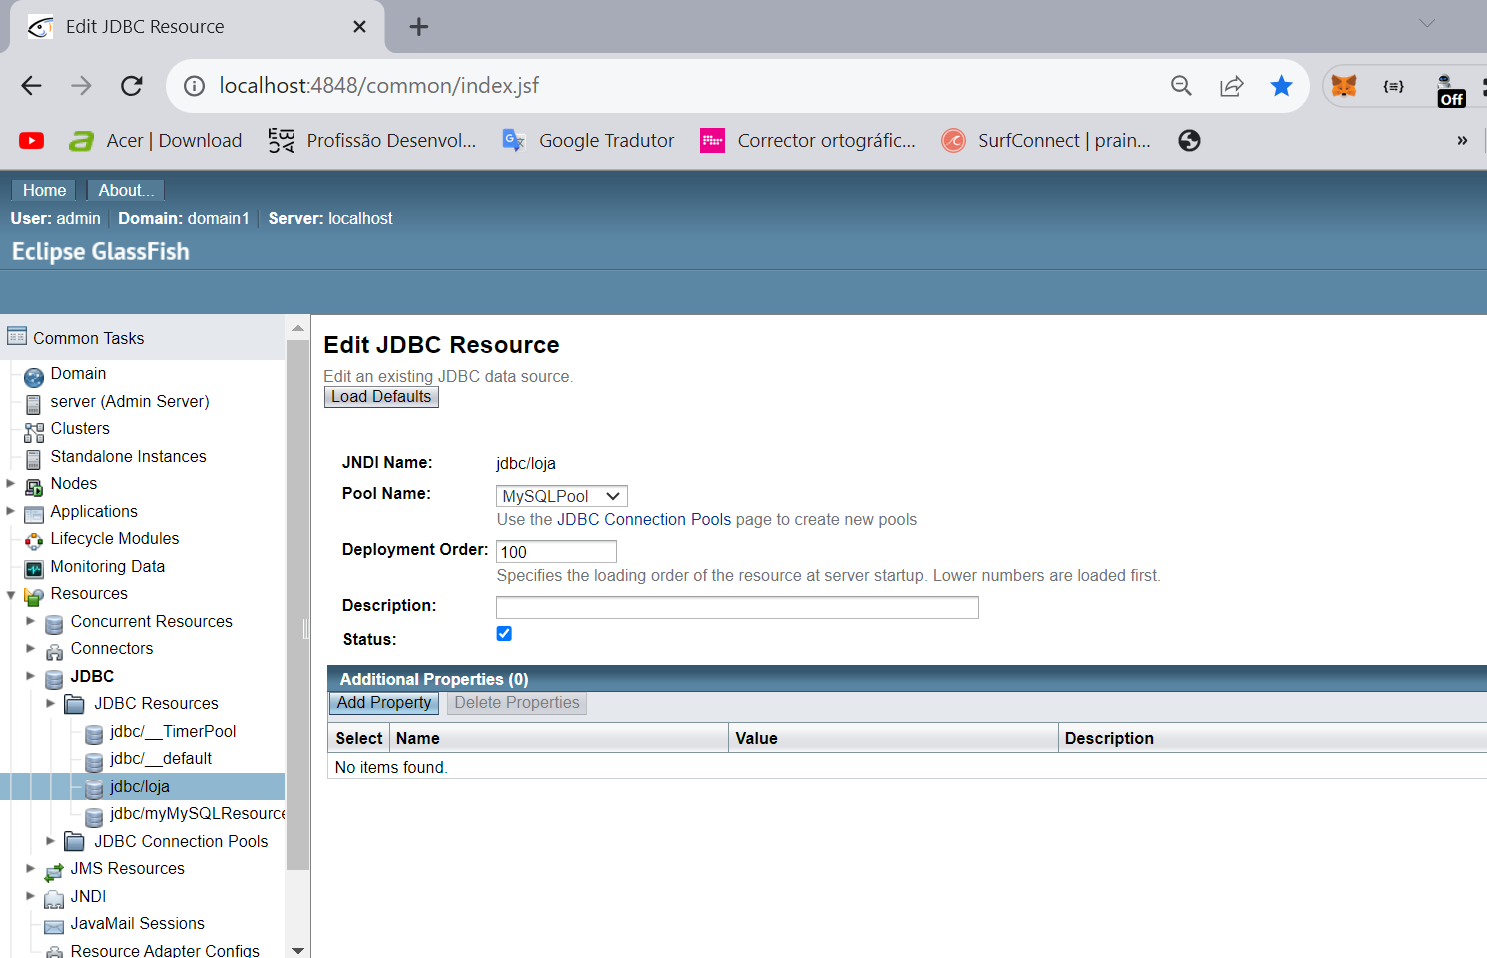
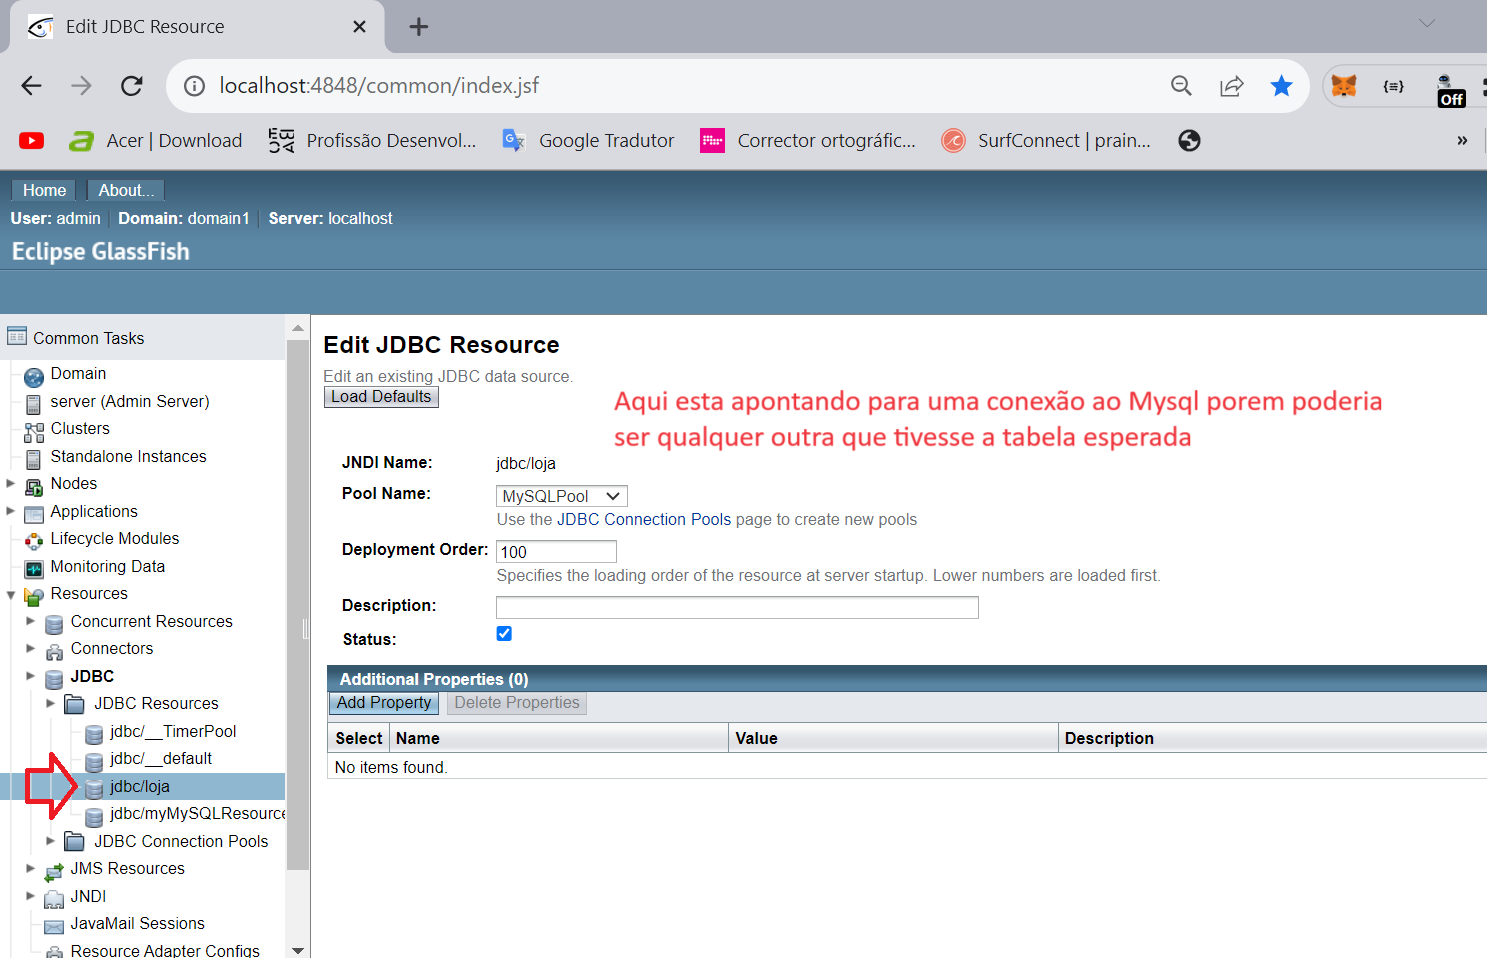
dados,imagens readme

Changed region(s): [[0.4022, 0.3935, 0.928, 0.4843], [0.0, 0.7871, 0.0619, 0.8476]]

diff --git a/README.md b/README.md
@@ -70,19 +70,35 @@
    - O jdk utilizado foi o 17
    - A execução do trabalho esta dividido em duas partes
      - parte 1
-        - http://localhost:8080/CadastroEE-WAR/ServletProduto
-        - http://localhost:8080/CadastroEE-WAR/SevletProduto
+        - http://localhost:8080/cadastroEE/ListProduto
+
     - parte 2 e 3   
-        - http://localhost:8080/CadastroEE-WAR/ServletProdutoFC 
+        - http://localhost:8080/cadastroEE-WAR/ServletProdutoFC 
        
 - Considerações finais
-  - Considerando existir um servidor Glassfish contendo as configurações necessárias para comunicação, considerar a seguinte pasta 'target' contendo arquivo '.war'
 
-  local
-  
-  ![image](CadastroEE/src/images/image6.png)     
+  - Foi modificada a variável de contexto do Glassfish para que o mapeamento do  servlets fosse alterado de 'CadastroEE-WAR' para 'cadastroEE' por isso as imagens tem um mapeamento diferente do link de execução.
 
-     ## Especificação
+    - obs: Essa variável de contexto é configurada no momento do deploy via pagina administrativa
+
+    - pasta arquivo '.war'
+    ![image](CadastroEE/src/images/deploy%20app%20war.png)
+
+    - configura da variavel de contexto
+    ![image](CadastroEE/src/images/deploy%20app%20war2.png)
+
+    - conclusão do deploy
+    ![image](CadastroEE/src/images/deploy%20app%20war3.png)  
+
+  - Devido a problemas na conexão entre o app e o servidor,foi necessário criar um pool de conexão para o mysql e apontar o recurso para este para poder concluir as objetivos do trabalho, porem creio que o importante é que se tenha o recurso 'jdbc/loja' apontando para um pool de conexão de qualquer banco que contenha a tabela solicitada na espec.
+   
+   - recurso jdbc/loja esperado 
+   ![image](CadastroEE/src/images/criar%20recurso%20mysql.png)
+
+   - pool de conexões disponíveis  
+   ![image](CadastroEE/src/images/poolconexoes.png)
+
+     ## Especificação oficial
     https://sway.office.com/xixE9HxcyecGGJa3?ref=Link&loc=play
     
    
